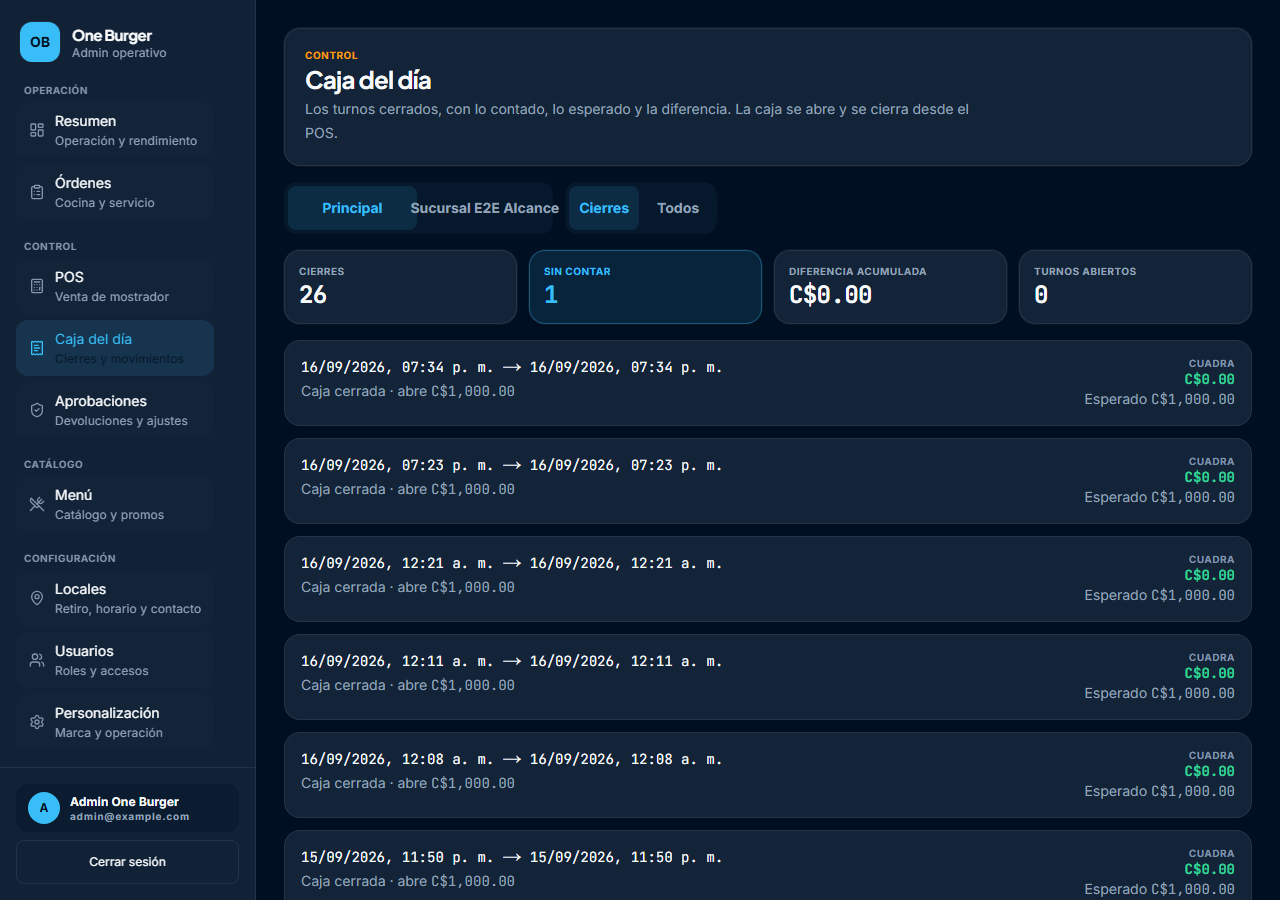
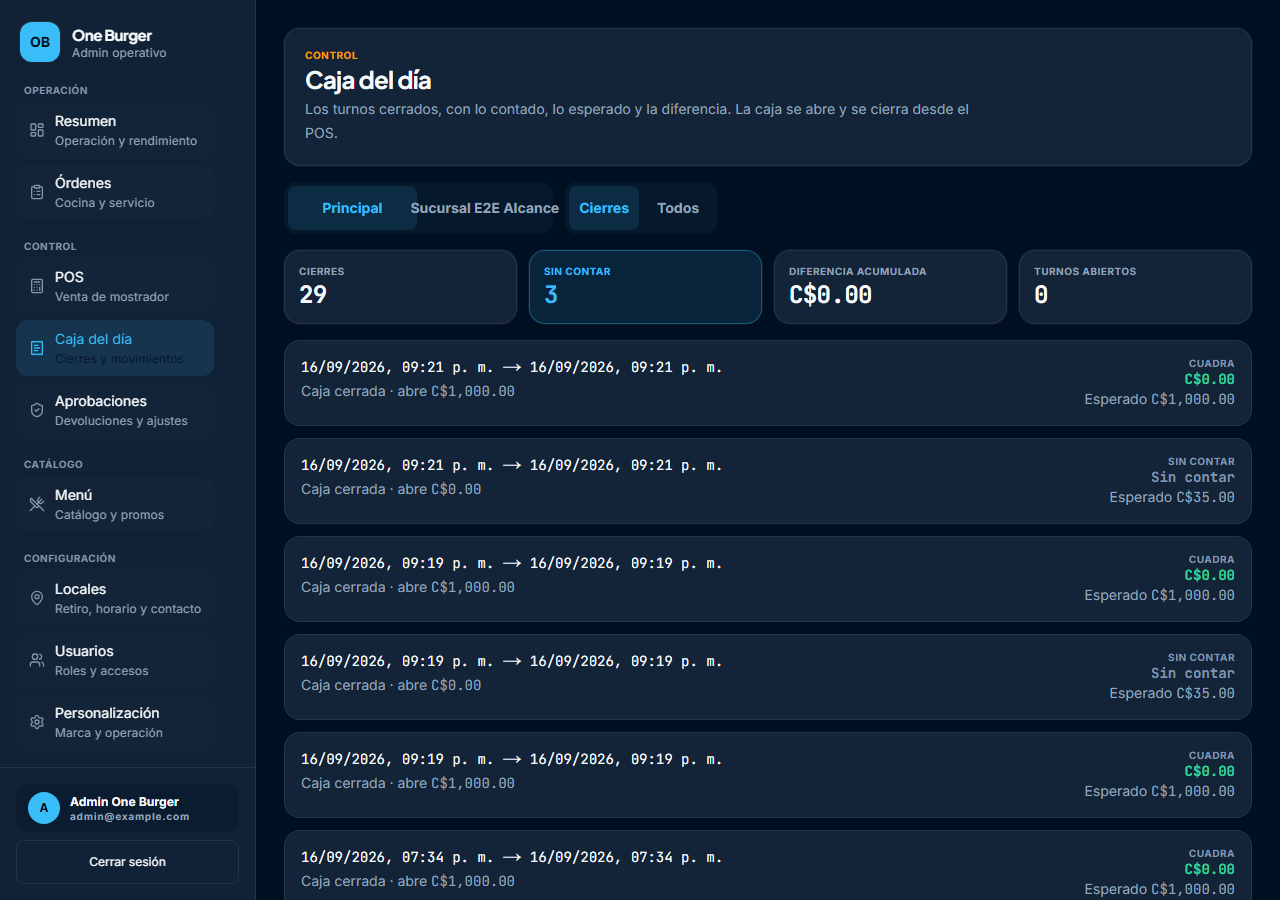
feat(pos): sin caja abierta no se cobra (Bloque 9.2 del POS)
Un cobro con la caja cerrada se registraba igual: el `Payment` quedaba en la base y el turno
que lo explica no existia, asi que esa plata no entraba a **ningun** arqueo. La pantalla lo
avisaba, pero el aviso no impedia nada.

- `registerPosSale` corta con 409 **antes** de crear el pedido cuando no hay turno abierto en
  el local (`findOpenShift` entra por dependencia, con el adaptador de produccion resolviendo
  `getCurrentShift`). El corte va primero: no se crea un pedido que despues no se puede
  registrar.
- El POS deshabilita «Cobrar» mientras no haya caja y muestra el motivo en un aviso del
  sistema; sigue siendo el cajero quien abre la caja desde la misma pantalla.
- Los tests de la pantalla que cobran ahora abren la caja primero (que es lo que hace el
  cajero); el E2E suma `ensureOpenShift`, idempotente, porque la suite puede correr despues
  del caso que cierra la caja. Se actualiza el ancla de navegacion del E2E de TASK-308:
  «Caja» paso a llamarse «POS» (Bloque 8.2) y la entrada de control vive en `/admin/cash`.

De paso: el boton «Cobrar» ya mostraba `CobrarC$0.00` sin espacio (los dos nodos de texto se
pegan); queda anotado como hallazgo de UI, no se toca en este commit para no mezclar temas.

Verificacion: suite 2139 tests en 318 archivos, lint, typecheck, `build`, `build:webpack` y
`security:secrets` en verde; **E2E local completo 107 pasaron / 7 salteados / 0 fallos**
[…]

diff --git a/src/app/(admin)/admin/pos/pos-client.test.tsx b/src/app/(admin)/admin/pos/pos-client.test.tsx
@@ -100,6 +100,20 @@ async function fillCustomer(user: ReturnType<typeof userEvent.setup>) {
   await user.type(screen.getByLabelText("Número del cliente"), "88887777");
 }
 
+/**
+ * Bloque 9.2 — abre la caja desde la pantalla, como hace el cajero al empezar el turno.
+ *
+ * El mock de `fetch` responde `{ data: null }` para la caja abierta (el estado de partida del local),
+ * y el POST de apertura devuelve el turno con su fondo. Sin esto el botón «Cobrar» está deshabilitado
+ * a propósito, porque no se cobra con la caja cerrada.
+ */
+async function abrirCaja(user: ReturnType<typeof userEvent.setup>) {
+  // El arqueo arranca plegado (§6 del sistema): primero se despliega, después se abre la caja.
+  await user.click(await screen.findByRole("button", { name: /Apertura \/ Arqueo/ }));
+  await user.click(await screen.findByRole("button", { name: "Abrir caja" }));
+  await screen.findByText(/Caja abierta · fondo/);
+}
+
 describe("PosClient", () => {
   let fetchMock: ReturnType<typeof vi.fn>;
 
@@ -217,6 +231,10 @@ describe("PosClient", () => {
     const user = userEvent.setup();
     render(<PosClient locations={locations} />);
 
+    // Bloque 9.2: sin caja abierta el cobro está bloqueado (el servidor lo rechaza con 409), así que
+    // la venta arranca abriendo la caja, que es lo que hace el cajero en el local.
+    await abrirCaja(user);
+
     await screen.findByText("Taco de birria");
     await user.click(screen.getByRole("button", { name: "Agregar Taco de birria a la venta" }));
     await fillCustomer(user);
@@ -253,6 +271,7 @@ describe("PosClient", () => {
     const user = userEvent.setup();
     render(<PosClient locations={locations} />);
 
+    await abrirCaja(user);
     await screen.findByText("Taco de birria");
     await user.click(screen.getByRole("button", { name: "Agregar Taco de birria a la venta" }));
     await user.click(screen.getByRole("button", { name: /^Cobrar / }));
@@ -450,6 +469,7 @@ describe("PosClient", () => {
     const user = userEvent.setup();
     render(<PosClient locations={locations} />);
 
+    await abrirCaja(user);
     await screen.findByText("Taco de birria");
     await user.click(screen.getByRole("button", { name: "Agregar Taco de birria a la venta" }));
     await fillCustomer(user);

diff --git a/tests/e2e/admin-pos.spec.ts b/tests/e2e/admin-pos.spec.ts
@@ -31,6 +31,42 @@ async function addFirstProduct(page: Page) {
 }
 
 /**
+ * Bloque 9.2 — deja la caja abierta antes de cobrar.
+ *
+ * Desde ese bloque el cobro **exige** un turno abierto (un cobro con la caja cerrada no entra a
+ * ningún arqueo y el servidor lo rechaza con 409). Primero se pregunta si ya hay una caja abierta
+ * por API —para no abrir una segunda, que el índice único de la base rechaza— y, si no la hay, se
+ * abre contando cero desde la propia pantalla. Es idempotente: el caso que cobra puede correr antes
+ * o después del caso que abre y cierra.
+ */
+async function ensureOpenShift(page: Page) {
+  const abierta = await page.evaluate(async () => {
+    const locationsResponse = await fetch("/api/admin/locations", { cache: "no-store" });
+    const locations = ((await locationsResponse.json()) as {
+      data: Array<{ id: string; posEnabled: boolean }>;
+    }).data.filter((location) => location.posEnabled);
+
+    for (const location of locations) {
+      const shiftResponse = await fetch(
+        `/api/admin/pos/shift?locationId=${encodeURIComponent(location.id)}`,
+        { cache: "no-store" },
+      );
+      const shift = ((await shiftResponse.json()) as { data?: { id: string } | null }).data;
+      if (shift) return true;
+    }
+
+    return false;
+  });
+
+  if (abierta) return;
+
+  // El bloque de arqueo arranca plegado (§6 del sistema): primero se despliega, después se abre.
+  await page.getByRole("button", { name: /Apertura \/ Arqueo/ }).click();
+  await page.getByRole("button", { name: "Abrir caja" }).click();
+  await expect(page.getByText(/Caja abierta · fondo/)).toBeVisible();
+}
+
+/**
  * TASK-308 — prende o apaga el punto de venta en **todos** los locales que hagan falta.
  *
  * Se recorre la pantalla real (la ficha del local, que es donde el owner lo hace) y se devuelven los
@@ -129,6 +165,7 @@ test.describe("punto de venta", () => {
 
     await loginAsOwner(page);
     await page.goto("/admin/pos");
+    await ensureOpenShift(page);
     await addFirstProduct(page);
 
     // Se paga el doble del total mostrado, para que haya cambio que verificar.

diff --git a/src/modules/pos/features/register-pos-sale/register-pos-sale.test.ts b/src/modules/pos/features/register-pos-sale/register-pos-sale.test.ts
@@ -50,7 +50,10 @@ function draftWithTaco(): PosDraft {
   });
 }
 
-function setup(createPosOrder = vi.fn(async () => order())) {
+function setup(
+  createPosOrder = vi.fn(async () => order()),
+  findOpenShift: () => Promise<{ id: string } | null> = async () => ({ id: "shift_01" }),
+) {
   const paymentRepository = new InMemoryPaymentRepository();
 
   return {
@@ -61,6 +64,7 @@ function setup(createPosOrder = vi.fn(async () => order())) {
       paymentRepository,
       businessCurrencyCode: "NIO",
       usdExchangeRate: 36.5,
+      findOpenShift,
     },
   };
 }
@@ -68,6 +72,27 @@ function setup(createPosOrder = vi.fn(async () => order())) {
 const customer = { name: "Cliente Mostrador", whatsapp: "88887777", email: "cliente@ejemplo.com" };
 
 describe("venta de mostrador", () => {
+  /**
+   * Bloque 9.2 del roadmap del POS (Fase 2) — sin caja abierta no se cobra.
+   *
+   * Un cobro con la caja cerrada se registraba igual: el `Payment` quedaba en la base y el turno que
+   * lo explica no existía, así que esa plata no entraba a ningún arqueo. Ahora corta **antes** de
+   * crear el pedido, con el motivo en español que la pantalla muestra.
+   */
+  it("sin caja abierta no cobra y no crea el pedido", async () => {
+    const { createPosOrder, paymentRepository, deps } = setup(undefined, async () => null);
+
+    await expect(
+      registerPosSale(
+        { draft: draftWithTaco(), customer, payments: [{ method: "cash", currency: "NIO", amount: 80 }] },
+        deps,
+      ),
+    ).rejects.toMatchObject({ status: 409, code: "CONFLICT" });
+
+    expect(createPosOrder).not.toHaveBeenCalled();
+    expect(await paymentRepository.listPaymentsByOrder("ord_01")).toHaveLength(0);
+  });
+
   it("crea el pedido con el cliente y el correo, y registra el cobro en córdobas", async () => {
     const { createPosOrder, paymentRepository, deps } = setup();
 

diff --git a/src/modules/pos/adapters/production-pos-sale.ts b/src/modules/pos/adapters/production-pos-sale.ts
@@ -3,6 +3,8 @@ import { loadBusinessSettings } from "@/modules/business-settings/features/get-p
 import { PrismaLocationRepository } from "@/modules/locations/adapters/prisma-location-repository";
 import { PrismaOrderRepository } from "@/modules/orders/adapters/prisma-order-repository";
 import { PrismaPaymentRepository } from "@/modules/orders/adapters/prisma-payment-repository";
+import { PrismaShiftRepository } from "@/modules/orders/adapters/prisma-shift-repository";
+import { getCurrentShift } from "@/modules/orders/features/shift/get-current-shift";
 import {
   createOrder,
   type CreateOrderRequest,
@@ -26,6 +28,7 @@ export async function createProductionPosSaleDependencies(): Promise<RegisterPos
   });
   const repository = new PrismaOrderRepository();
   const locationRepository = new PrismaLocationRepository();
+  const shiftRepository = new PrismaShiftRepository();
 
   return {
     // `createOrder` devuelve `{ data, meta }`: acá se desempaqueta para que el POS trabaje con el
@@ -41,5 +44,8 @@ export async function createProductionPosSaleDependencies(): Promise<RegisterPos
     paymentRepository: new PrismaPaymentRepository(),
     businessCurrencyCode: settings.currencyCode,
     usdExchangeRate: settings.usdExchangeRate,
+    // Bloque 9.2: sin caja abierta no se cobra (`registerPosSale` corta con 409).
+    findOpenShift: async (locationId) =>
+      (await getCurrentShift({ locationId }, { shiftRepository })).data,
   };
 }

diff --git a/src/modules/pos/features/register-pos-sale/register-pos-sale.ts b/src/modules/pos/features/register-pos-sale/register-pos-sale.ts
@@ -42,6 +42,14 @@ export type RegisterPosSaleDependencies = {
   paymentRepository: PaymentRepository;
   businessCurrencyCode: string;
   usdExchangeRate: number | null;
+  /**
+   * Bloque 9.2 del roadmap del POS (Fase 2) — la caja abierta del local, si hay.
+   *
+   * Un cobro con la caja cerrada **no entra a ningún arqueo**: se registra el `Payment` y el turno
+   * que lo explica no existe. Antes se permitía (con un aviso en pantalla) y la plata quedaba fuera
+   * del control; ahora es un 409 con el motivo, y el mostrador lo dice antes de cobrar.
+   */
+  findOpenShift?: (locationId: string) => Promise<{ id: string } | null>;
 };
 
 export type RegisterPosSaleResult = {
@@ -57,6 +65,16 @@ export async function registerPosSale(
   deps: RegisterPosSaleDependencies,
 ): Promise<RegisterPosSaleResult> {
   assertPosDraftReady(input.draft);
+
+  // Bloque 9.2 — sin caja abierta no se cobra: el cobro no tendría arqueo que lo explique.
+  if (deps.findOpenShift) {
+    const openShift = await deps.findOpenShift(input.draft.locationId);
+    if (!openShift) {
+      throw new PosError(409, "CONFLICT", "Abrí la caja antes de cobrar.", {
+        shift: "No hay una caja abierta en este local.",
+      });
+    }
+  }
 
   const paidInBusinessCurrency = paymentsTotalInBusinessCurrency({
     payments: input.payments,

diff --git a/src/app/(admin)/admin/pos/pos-client.tsx b/src/app/(admin)/admin/pos/pos-client.tsx
@@ -830,10 +830,20 @@ export default function PosClient({ locations }: { locations: PosLocationOption[
                 onChange={(event) => setPaidAmount(event.target.value)}
               />
 
+              {!shift && !shiftLoading ? (
+                <p
+                  role="status"
+                  className="rounded-stitch-lg border border-status-prep-border bg-status-prep-bg px-3 py-2 text-st-body text-status-prep-text"
+                >
+                  Abrí la caja para poder cobrar: un cobro con la caja cerrada no entra a ningún
+                  arqueo.
+                </p>
+              ) : null}
+
               <Button
                 type="button"
                 className="min-h-12 w-full"
-                disabled={charging}
+                disabled={charging || !shift}
                 onClick={() => void charge()}
               >
                 {charging ? ("Cobrando…") : (<>Cobrar <span className="font-mono">{formatCurrency(totals.total, currency)}</span></>)}
